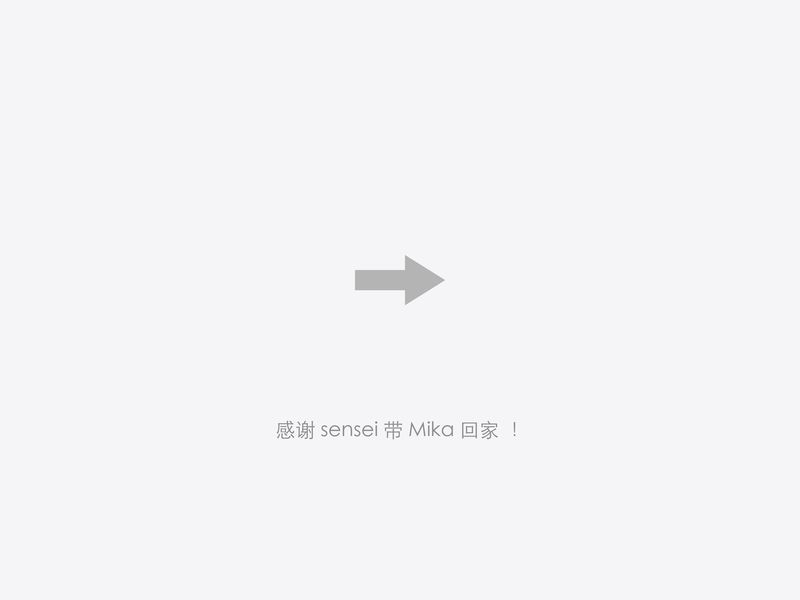
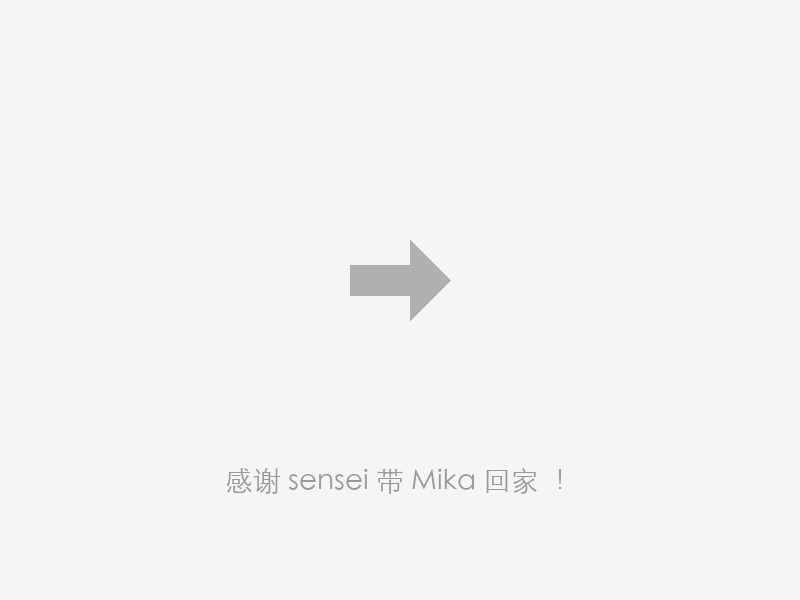
style: exactly center the gray arrow and fix typography rendering

Changed region(s): [[0.2812, 0.78, 0.6875, 0.84], [0.3438, 0.69, 0.625, 0.75], [0.4375, 0.39, 0.5625, 0.54]]

diff --git a/make_bg_gray.py b/make_bg_gray.py
@@ -1,0 +1,39 @@
+from PIL import Image, ImageDraw, ImageFont
+import traceback
+
+width, height = 800, 600
+bg = Image.new('RGB', (width, height), '#F5F5F7')
+draw = ImageDraw.Draw(bg)
+
+arrow_color = '#A0A0A5'
+# Draw a minimalist, elegant thin arrow
+# Main line
+draw.line([(350, 280), (450, 280)], fill=arrow_color, width=3)
+# Arrow head (slim, 45 degree angle)
+draw.line([(435, 265), (450, 280)], fill=arrow_color, width=3)
+draw.line([(435, 295), (450, 280)], fill=arrow_color, width=3)
+
+font = None
+paths = [
+    "/System/Library/Fonts/PingFang.ttc",
+    "/System/Library/Fonts/STHeiti Light.ttc",
+    "/System/Library/Fonts/Supplemental/Arial Unicode.ttf",
+    "/Library/Fonts/Arial Unicode.ttf"
+]
+for p in paths:
+    try:
+        font = ImageFont.truetype(p, 28)
+        print(f"Successfully loaded font: {p}")
+        break
+    except Exception as e:
+        print(f"Failed to load {p}: {e}")
+
+if font is None:
+    font = ImageFont.load_default()
+    print("WARNING: Falling back to default font. Chinese will be garbled!")
+
+text = "感谢 sensei 带 Mika 回家 ！"
+draw.text((400, 480), text, fill='#999999', font=font, anchor="mm")
+
+bg.save('/Users/tianzhen/Documents/conversion_tool/image/dmg_arrow_bg.png', dpi=(72, 72))
+print("Image saved.")
